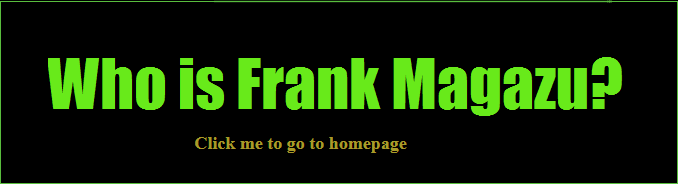
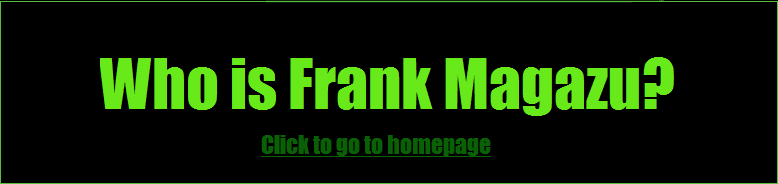
added many more pages and changed overall page width

diff --git a/LCD_TV_Repair.html b/LCD_TV_Repair.html
@@ -105,35 +105,28 @@ font-size:12px;
 
 </td><td class="tdRight" valign="top"><div class="rightTitle"><font size="4"><center></center></font></div><br>
 
-<div class="templatething"><font size="4"><center>Party Box v2.1</center></font></div><br>
+<div class="templatething"><font size="4"><center>LCD TV Repair</center></font></div><br>
 
 <font size="3">
 <center>
-<br>So this is the Party Box, or the Rave Box, or the Concert box, or simply a "Boom box". Despite there not being a real name for it, it stil exists. It is composed of a huge storage container with 
-a car system in it. It has a deticated low powered subwoofer and 4 car speakers. 2 of which are 3 way. It has a pioneer head unit as well. Included a built in phone charger, a LED controller, bluetooth and a AUX. 
-It has a built in SLA battery and is also capable of runing off of AC power.<br>
 <br>
 <br>
-<iframe width="560" height="315" src="https://www.youtube.com/embed/HO0IDxotR4o" frameborder="0" allowfullscreen></iframe><br><br><br><br>
-<br>
-<img src="http://s32.postimg.org/sxftcqq2t/20160414_232150.jpg" alt="Robot image" style="width:532px;height:750px;">
-<img src="http://s32.postimg.org/4i7lbor5x/20160414_232228.jpg" alt="Robot image" style="width:532px;height:750px;"><br><br>
-<img src="http://s32.postimg.org/dh6ug7ath/20160414_232313.jpg" alt="Robot image" style="width:532px;height:750px;"><br><br>
-<img src="http://s32.postimg.org/dh6ug7ath/20160414_232313.jpg" alt="Robot image" style="width:532px;height:750px;"><br><br>
-<img src="http://s32.postimg.org/i1ofhe551/20160414_232320.jpg" alt="Robot image" style="width:532px;height:750px;"><br><br>
-<img src="http://s32.postimg.org/4w8xbab9h/20160414_232335.jpg" alt="Robot image" style="width:532px;height:750px;"><br><br>
-<img src="http://s32.postimg.org/jjeh6oz9h/20160414_232356.jpg" alt="Robot image" style="width:532px;height:450px;"><br><br>
-<img src="http://s32.postimg.org/bf6d1ycud/20160417_184712.jpg" alt="Robot image" style="width:532px;height:700px;"><br><br>
+
+My Grandma's TV broke. I took it apart and basically discovered that the backlight was faulty, whether it was the backlight bulb, the power supply, or the control wire. It didn't matter, I was determined to hack this to pieces. I put multiple strips of LED lights from eBay (the total cost in LEDs was < $10) in the spot where the backlight of the TV was. I ran the wires out the back of the TV and needed 12 volts. So I super glued a computer power supply to the back of the TV. Other issue was I needed to turn off the PSU when the TV was off. I managed to plug a USB cable into the TV's USB port and use that to control the power supply with only a MOSFET, which was < 1$. Essentially the TV only powers the USB port when the TV is powered on so this was the perfect signal to turn on the backlight. It doesn't looks exactly the same but is still very usable compared to being bricked like it was.  For < $10 that is not a bad fix<br><br><br>
 
 
-<br><br><br>The following pictures are old, this is pre Party Box v2.1<br><br><br>
-<img src="http://s13.postimg.org/6cdcgeqsn/20160118_230744.jpg" alt="Robot image" style="width:532px;height:400px;"><br><br>
-<img src="http://s13.postimg.org/nqxkoonxj/20160118_230752.jpg" alt="Robot image" style="width:532px;height:400px;"><br><br>
-<img src="http://s13.postimg.org/uuai1ezon/20160118_230759.jpg" alt="Robot image" style="width:532px;height:400px;"><br><br>
-<img src="http://s13.postimg.org/ao702j413/20160118_230821.jpg" alt="Robot image" style="width:532px;height:400px;"><br><br>
-<img src="http://s13.postimg.org/rkr0xu59j/20160118_230831.jpg" alt="Robot image" style="width:532px;height:400px;"><br><br>
-<img src="http://s13.postimg.org/ezvlrjaxz/20160118_230907.jpg" alt="Robot image" style="width:532px;height:600px;"><br><br>
-<img src="http://s13.postimg.org/4oj8yvj8n/20160118_230916.jpg" alt="Robot image" style="width:532px;height:400px;"><br><br>
+
+<img src="http://s32.postimg.org/p4648oh39/20160330_231306.jpg" alt="Robot image" style="width:532px;height:450px;">
+<img src="http://s32.postimg.org/sdp4svukl/20160330_231313.jpg" alt="Robot image" style="width:532px;height:450px;"><br><br>
+<img src="http://s32.postimg.org/h56crcrd1/20160401_000403.jpg" alt="Robot image" style="width:532px;height:450px;"><br><br>
+<img src="http://s32.postimg.org/i286mhdhh/20160401_002329.jpg" alt="Robot image" style="width:532px;height:450px;"><br><br>
+<img src="http://s32.postimg.org/km8eubqf9/20160401_002812.jpg" alt="Robot image" style="width:532px;height:450px;"><br><br>
+<img src="http://s32.postimg.org/pyx98gebp/20160401_120728.jpg" alt="Robot image" style="width:532px;height:450px;"><br><br>
+<img src="http://s32.postimg.org/g46428adh/20160401_120735.jpg" alt="Robot image" style="width:532px;height:450px;"><br><br>
+<img src="http://s32.postimg.org/t9lm8c491/20160401_120816.jpg" alt="Robot image" style="width:532px;height:450px;"><br><br>
+
+
+
 
 </center>
 

diff --git a/whlphnV2.html b/whlphnV2.html
@@ -20,7 +20,7 @@ a:hover{color:FFCC33;font-family:verdana;}
 
 
 <style>
-
+ 
 }
 
 body {
@@ -105,36 +105,21 @@ font-size:12px;
 
 </td><td class="tdRight" valign="top"><div class="rightTitle"><font size="4"><center></center></font></div><br>
 
-<div class="templatething"><font size="4"><center>Party Box v2.1</center></font></div><br>
+<div class="templatething"><font size="4"><center>Wheelchair Phone V2</center></font></div><br>
 
 <font size="3">
 <center>
-<br>So this is the Party Box, or the Rave Box, or the Concert box, or simply a "Boom box". Despite there not being a real name for it, it stil exists. It is composed of a huge storage container with 
-a car system in it. It has a deticated low powered subwoofer and 4 car speakers. 2 of which are 3 way. It has a pioneer head unit as well. Included a built in phone charger, a LED controller, bluetooth and a AUX. 
-It has a built in SLA battery and is also capable of runing off of AC power.<br>
-<br>
-<br>
-<iframe width="560" height="315" src="https://www.youtube.com/embed/HO0IDxotR4o" frameborder="0" allowfullscreen></iframe><br><br><br><br>
-<br>
-<img src="http://s32.postimg.org/sxftcqq2t/20160414_232150.jpg" alt="Robot image" style="width:532px;height:750px;">
-<img src="http://s32.postimg.org/4i7lbor5x/20160414_232228.jpg" alt="Robot image" style="width:532px;height:750px;"><br><br>
-<img src="http://s32.postimg.org/dh6ug7ath/20160414_232313.jpg" alt="Robot image" style="width:532px;height:750px;"><br><br>
-<img src="http://s32.postimg.org/dh6ug7ath/20160414_232313.jpg" alt="Robot image" style="width:532px;height:750px;"><br><br>
-<img src="http://s32.postimg.org/i1ofhe551/20160414_232320.jpg" alt="Robot image" style="width:532px;height:750px;"><br><br>
-<img src="http://s32.postimg.org/4w8xbab9h/20160414_232335.jpg" alt="Robot image" style="width:532px;height:750px;"><br><br>
-<img src="http://s32.postimg.org/jjeh6oz9h/20160414_232356.jpg" alt="Robot image" style="width:532px;height:450px;"><br><br>
-<img src="http://s32.postimg.org/bf6d1ycud/20160417_184712.jpg" alt="Robot image" style="width:532px;height:700px;"><br><br>
+<br><br>
+The original Wheelchair phone was a great concept. However, It had some major issues. The bulk of the electronics were underneath the wheelchair and there was a hideous IDE connector going from the electronics to the interface. This made it difficult to repair the phone and there was a lot of unnecessary bloat. So The second version incorporates all of the electronics into a single enclosure that mount directly on the arm of the wheelchair. This version also has no old fashion handset. The microphone is integrated as well as speaker phone.  This version incorporates a larger screen that has 4 lines and is slightly more waterproof then the previous version.  this second version also incorporates a series of 10 addressable RGB LEDs that can show various statuses. Additionally there are no sensors ranging from a temperature sensor to an accelerometer to a compass. The accelerometer can detect if the wheelchair tips over and send text messages and/or calls to family members in the case of an emergency. 
+<br><br>
+the biggest issue I encountered was noise from the GSM chip which was picked up in the speaker amplifier. 
 
 
-<br><br><br>The following pictures are old, this is pre Party Box v2.1<br><br><br>
-<img src="http://s13.postimg.org/6cdcgeqsn/20160118_230744.jpg" alt="Robot image" style="width:532px;height:400px;"><br><br>
-<img src="http://s13.postimg.org/nqxkoonxj/20160118_230752.jpg" alt="Robot image" style="width:532px;height:400px;"><br><br>
-<img src="http://s13.postimg.org/uuai1ezon/20160118_230759.jpg" alt="Robot image" style="width:532px;height:400px;"><br><br>
-<img src="http://s13.postimg.org/ao702j413/20160118_230821.jpg" alt="Robot image" style="width:532px;height:400px;"><br><br>
-<img src="http://s13.postimg.org/rkr0xu59j/20160118_230831.jpg" alt="Robot image" style="width:532px;height:400px;"><br><br>
-<img src="http://s13.postimg.org/ezvlrjaxz/20160118_230907.jpg" alt="Robot image" style="width:532px;height:600px;"><br><br>
-<img src="http://s13.postimg.org/4oj8yvj8n/20160118_230916.jpg" alt="Robot image" style="width:532px;height:400px;"><br><br>
-
+<br><br><br><br>
+<img src="http://s32.postimg.org/gz8n7aa2t/20160508_005842.jpg" alt="Wheelchair Phone image" style="width:600px;height:450px;"><br><br>
+<img src="http://s32.postimg.org/4aeuuixdx/20160508_035010.jpg" alt="Wheelchair Phone image" style="width:600px;height:450px;"><br><br>
+<img src="http://s32.postimg.org/tf5d113et/20160508_075258.jpg" alt="Wheelchair Phone image" style="width:600px;height:450px;"><br><br>
+<img src="http://s32.postimg.org/spn2vkwat/20160508_075307.jpg" alt="Wheelchair Phone image" style="width:600px;height:450px;"><br><br>
 </center>
 
 

diff --git a/SolderingStation.html b/SolderingStation.html
@@ -105,35 +105,24 @@ font-size:12px;
 
 </td><td class="tdRight" valign="top"><div class="rightTitle"><font size="4"><center></center></font></div><br>
 
-<div class="templatething"><font size="4"><center>Party Box v2.1</center></font></div><br>
+<div class="templatething"><font size="4"><center>Soldering Station</center></font></div><br>
 
 <font size="3">
 <center>
-<br>So this is the Party Box, or the Rave Box, or the Concert box, or simply a "Boom box". Despite there not being a real name for it, it stil exists. It is composed of a huge storage container with 
-a car system in it. It has a deticated low powered subwoofer and 4 car speakers. 2 of which are 3 way. It has a pioneer head unit as well. Included a built in phone charger, a LED controller, bluetooth and a AUX. 
-It has a built in SLA battery and is also capable of runing off of AC power.<br>
 <br>
 <br>
-<iframe width="560" height="315" src="https://www.youtube.com/embed/HO0IDxotR4o" frameborder="0" allowfullscreen></iframe><br><br><br><br>
-<br>
-<img src="http://s32.postimg.org/sxftcqq2t/20160414_232150.jpg" alt="Robot image" style="width:532px;height:750px;">
-<img src="http://s32.postimg.org/4i7lbor5x/20160414_232228.jpg" alt="Robot image" style="width:532px;height:750px;"><br><br>
-<img src="http://s32.postimg.org/dh6ug7ath/20160414_232313.jpg" alt="Robot image" style="width:532px;height:750px;"><br><br>
-<img src="http://s32.postimg.org/dh6ug7ath/20160414_232313.jpg" alt="Robot image" style="width:532px;height:750px;"><br><br>
-<img src="http://s32.postimg.org/i1ofhe551/20160414_232320.jpg" alt="Robot image" style="width:532px;height:750px;"><br><br>
-<img src="http://s32.postimg.org/4w8xbab9h/20160414_232335.jpg" alt="Robot image" style="width:532px;height:750px;"><br><br>
-<img src="http://s32.postimg.org/jjeh6oz9h/20160414_232356.jpg" alt="Robot image" style="width:532px;height:450px;"><br><br>
-<img src="http://s32.postimg.org/bf6d1ycud/20160417_184712.jpg" alt="Robot image" style="width:532px;height:700px;"><br><br>
+
+So this may look a little strange, Yes, that is actually a cake pan you are seeing. Basically what I made here is a sink. I took a cake pan that I found at goodwill for less than $5 and drilled 2 holes in it. One hole is the drain. It does through a basket filter in a bucket that is on the floor and the other is a hose that goes to a pump that is in the bucket. It is a reusable sink or in essence a water fountain. As you can see in the videos and picture I like to do my soldering here. Mainly because when soldering there are pieces of hot, molten lead that can fall on myself, my desk, or my carpet. If it falls in a metal pan with water in it just gets washed away and filtered in the basket. same goes with the ends of wires that I strip, metal pins I clip, clipping of wires, electrical tape, hot glue, bad components, pieces of plastic from drilling. All of this can be done in this pan and simply washed away with the water. I also put a high powered fan with a carbon filter to take away the harmful soldering smoke. There is a water sensor to prevent the pan from overflowing. I added knobs and LEDS to control and view what the table is doing. Oh, and the table is actually a white board which is waterproof and can be written on like a white board. <br><br><br>
+
+<iframe width="560" height="315" src="https://www.youtube.com/embed/jaLpai33_0Y" frameborder="0" allowfullscreen></iframe>
 
 
-<br><br><br>The following pictures are old, this is pre Party Box v2.1<br><br><br>
-<img src="http://s13.postimg.org/6cdcgeqsn/20160118_230744.jpg" alt="Robot image" style="width:532px;height:400px;"><br><br>
-<img src="http://s13.postimg.org/nqxkoonxj/20160118_230752.jpg" alt="Robot image" style="width:532px;height:400px;"><br><br>
-<img src="http://s13.postimg.org/uuai1ezon/20160118_230759.jpg" alt="Robot image" style="width:532px;height:400px;"><br><br>
-<img src="http://s13.postimg.org/ao702j413/20160118_230821.jpg" alt="Robot image" style="width:532px;height:400px;"><br><br>
-<img src="http://s13.postimg.org/rkr0xu59j/20160118_230831.jpg" alt="Robot image" style="width:532px;height:400px;"><br><br>
-<img src="http://s13.postimg.org/ezvlrjaxz/20160118_230907.jpg" alt="Robot image" style="width:532px;height:600px;"><br><br>
-<img src="http://s13.postimg.org/4oj8yvj8n/20160118_230916.jpg" alt="Robot image" style="width:532px;height:400px;"><br><br>
+<img src="http://s32.postimg.org/446rj00hx/20160511_222433.jpg" alt="Robot image" style="width:532px;height:450px;">
+<img src="http://s32.postimg.org/s6nldvh51/20160515_220843.jpg" alt="Robot image" style="width:532px;height:450px;"><br><br>
+
+
+
+
 
 </center>
 

diff --git a/index.html b/index.html
@@ -7,6 +7,7 @@ BODY
 <SCRIPT LANGUAGE="JavaScript"><style type="text/css"><!--
 			<!--a { color: #59BD3E; text-decoration: none }
 			<!--a:hover { color: #000000; text-decoration: none }
+			<!--a:visited { color: #1b3a13; text-decoration: none }
 			color:000000 --> { }-->
 
 
@@ -90,7 +91,7 @@ border-bottom:1px solid #000000;
 }
  --></style>
 <table style="border-left:1px ;border-right:0px solid #59BD3E" cellpadding="0" align="center" width="600" bgcolor="#000000" cellspacing="0">
-<tr><td colspan="2"><table width=600 border=0 cellpadding=0 cellspacing=0><td colspan=10><img src="darklogo.png" alt=""></td></tr></tr></table></tr><tr><td valign="top" class="tdLeft"><div class="leftTitle"></div>
+<tr><td colspan="2"><table width=775 border=0 cellpadding=0 cellspacing=0><td colspan=10><img src="darklogo.png" alt=""></td></tr></tr></table></tr><tr><td valign="top" class="tdLeft"><div class="leftTitle"></div>
 
  
 <div class="leftTitle">
@@ -111,7 +112,7 @@ border-bottom:1px solid #000000;
 <br>*<a href="led_matrix.html"> LED Matrix</a>
 <br>*<a href="lieDetector.html"> Lie Detector</a>
 <br>*<a href="PartyBox.html"> Party Box</a>
-
+<br>*<a href="SolderingStation.html"> Soldering Station</a>
 
 
 </b></font></p><b></b>
@@ -121,6 +122,9 @@ border-bottom:1px solid #000000;
 <div class="leftTitle"> <br><br>----Helpful projects for Others----</center>
 <p><font size="2"><b>
 *<a href="whlphn.html"> Wheelchair Phone</a>
+<br>*<a href="whlphnV2.html"> Wheelchair Phone V2</a>
+<br>*<a href="LCD_TV_Repair.html"> LCD TV Repair</a>
+
 </b></font></p><b></b>
 </div>
 
